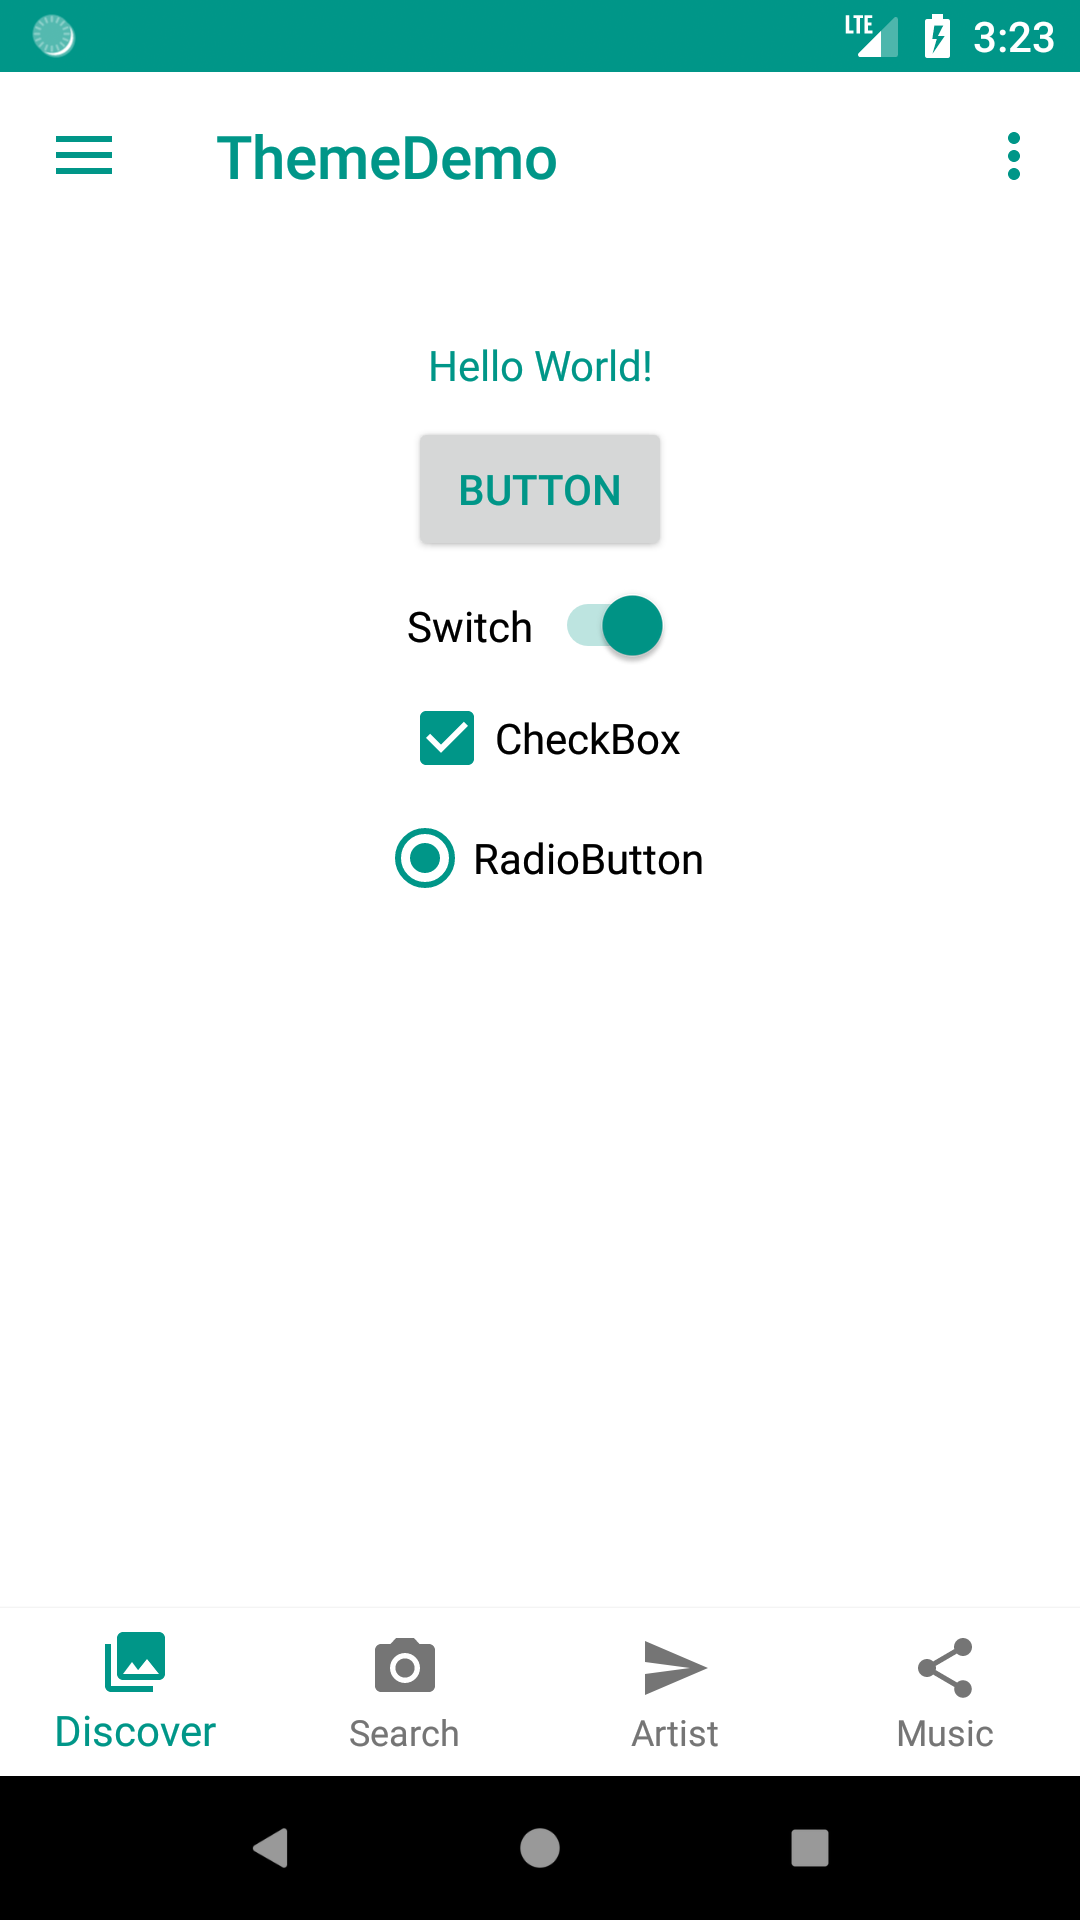
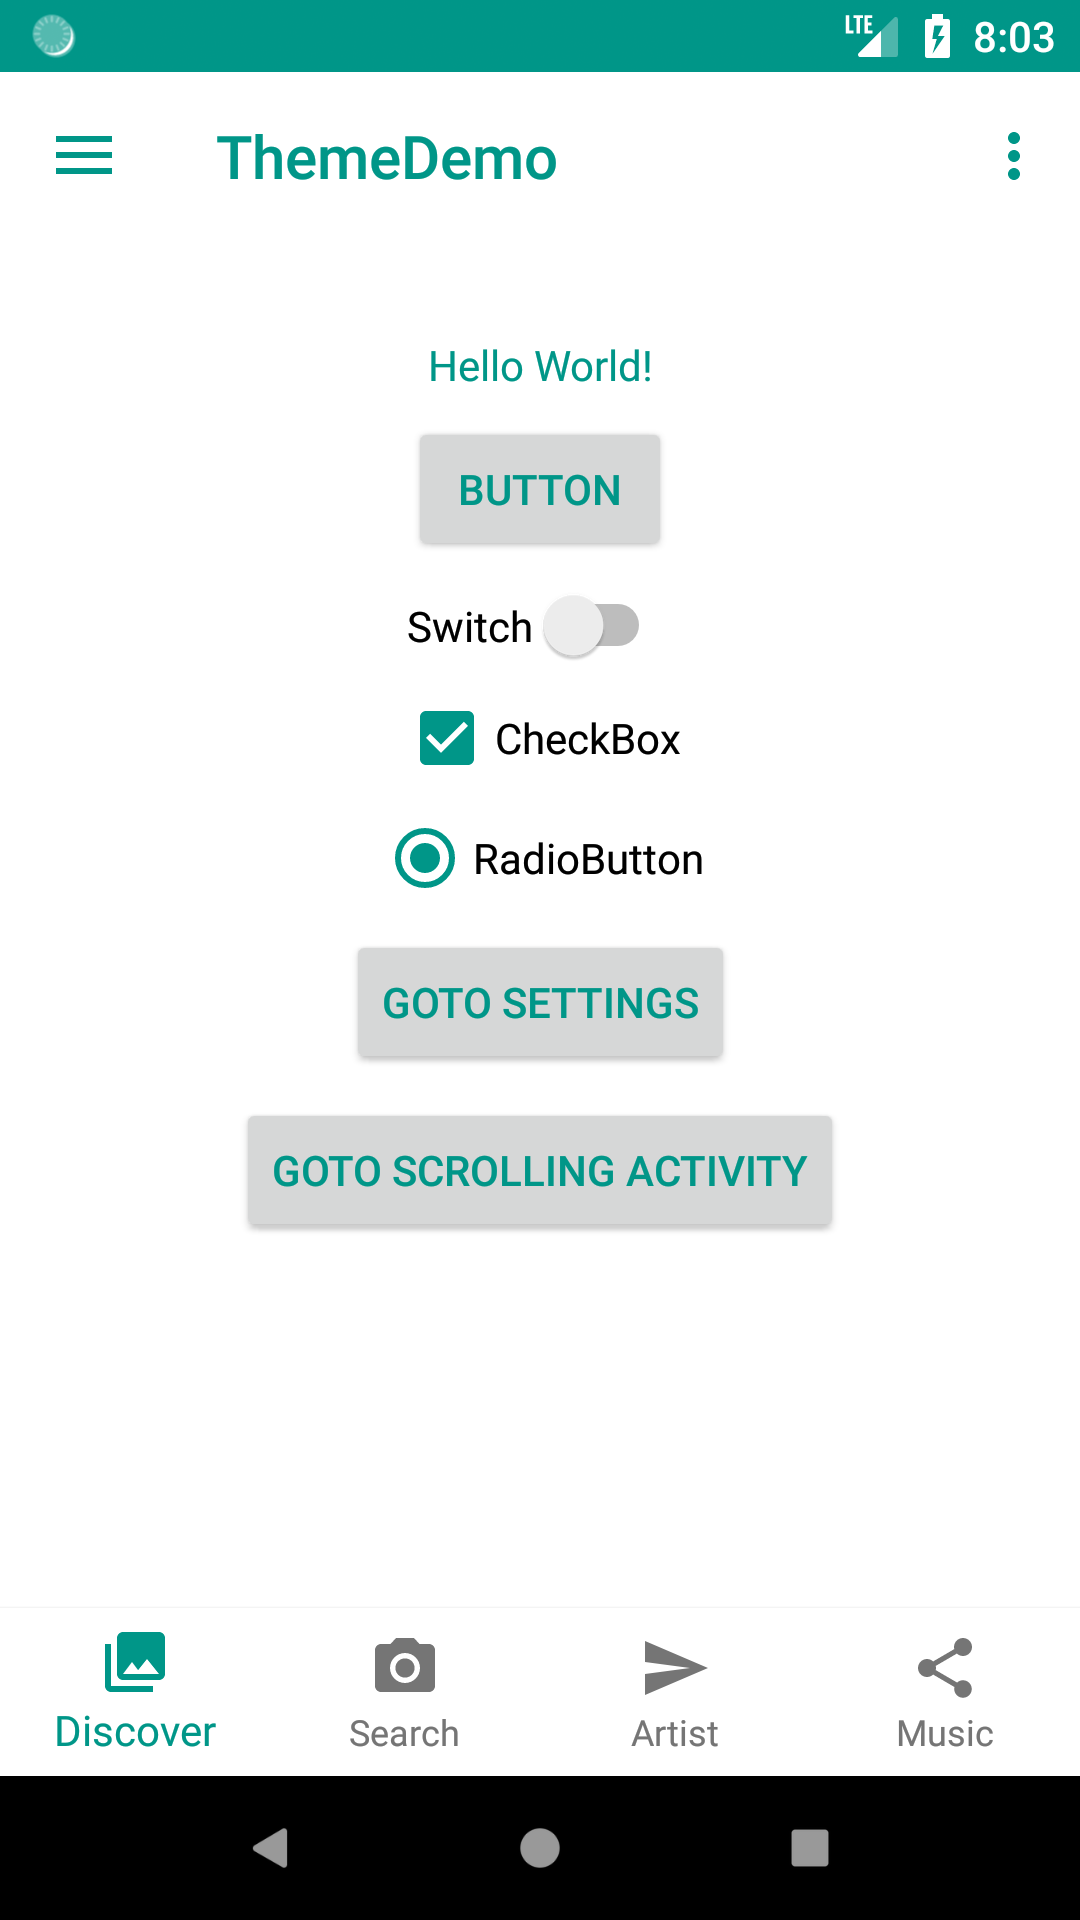
added issues screenshot

Changed region(s): [[0.2139, 0.4688, 0.7944, 0.6562], [0.5194, 0.3125, 0.6111, 0.3438], [0.9167, 0.0, 0.9472, 0.0312]]

diff --git a/app/src/main/java/me/spotytube/themedemo/MainActivity.kt b/app/src/main/java/me/spotytube/themedemo/MainActivity.kt
@@ -16,6 +16,7 @@ import android.view.Menu
 import android.view.MenuItem
 import kotlinx.android.synthetic.main.activity_main.*
 import kotlinx.android.synthetic.main.app_bar_main.*
+import kotlinx.android.synthetic.main.content_main.*
 
 class MainActivity : AppCompatActivity(), NavigationView.OnNavigationItemSelectedListener {
 
@@ -51,6 +52,14 @@ class MainActivity : AppCompatActivity(), NavigationView.OnNavigationItemSelecte
 
         navigation.setOnNavigationItemSelectedListener(mOnNavigationItemSelectedListener)
         BottomNavigationViewHelper.removeShiftMode(navigation)
+
+        button_settings.setOnClickListener {
+            startActivity(Intent(this, SettingsActivity::class.java))
+        }
+
+        button_scrolling.setOnClickListener {
+            startActivity(Intent(this, ScrollingActivity::class.java))
+        }
     }
 
     override fun onBackPressed() {

diff --git a/app/src/main/java/me/spotytube/themedemo/ScrollingActivity.kt b/app/src/main/java/me/spotytube/themedemo/ScrollingActivity.kt
@@ -1,0 +1,23 @@
+package me.spotytube.themedemo
+
+import android.os.Bundle
+import android.support.design.widget.Snackbar
+import android.support.v7.app.AppCompatActivity
+import kotlinx.android.synthetic.main.activity_scrolling.*
+
+class ScrollingActivity : AppCompatActivity() {
+
+    override fun onCreate(savedInstanceState: Bundle?) {
+        super.onCreate(savedInstanceState)
+        setContentView(R.layout.activity_scrolling)
+        setSupportActionBar(toolbar)
+        supportActionBar?.let {
+            it.setDisplayHomeAsUpEnabled(true)
+            it.title = "Scrolling Activity"
+        }
+        fab.setOnClickListener { view ->
+            Snackbar.make(view, "Replace with your own action", Snackbar.LENGTH_LONG)
+                    .setAction("Action", null).show()
+        }
+    }
+}

diff --git a/README.md b/README.md
@@ -1,3 +1,13 @@
 # ThemeDemo
 
 <img src="https://raw.githubusercontent.com/PuniCharana/ThemeDemo/master/images/theme_demo.png" alt="Theme Demo" width="300px">
+
+## Issues
+
+1. **StatusBar** background becomes white  
+
+<img src="https://raw.githubusercontent.com/PuniCharana/ThemeDemo/master/images/scrolling.png" alt="Theme Demo" width="300px">
+
+2. **Title and back button** is not visible 
+
+<img src="https://raw.githubusercontent.com/PuniCharana/ThemeDemo/master/images/settings.png" alt="Theme Demo" width="300px">
